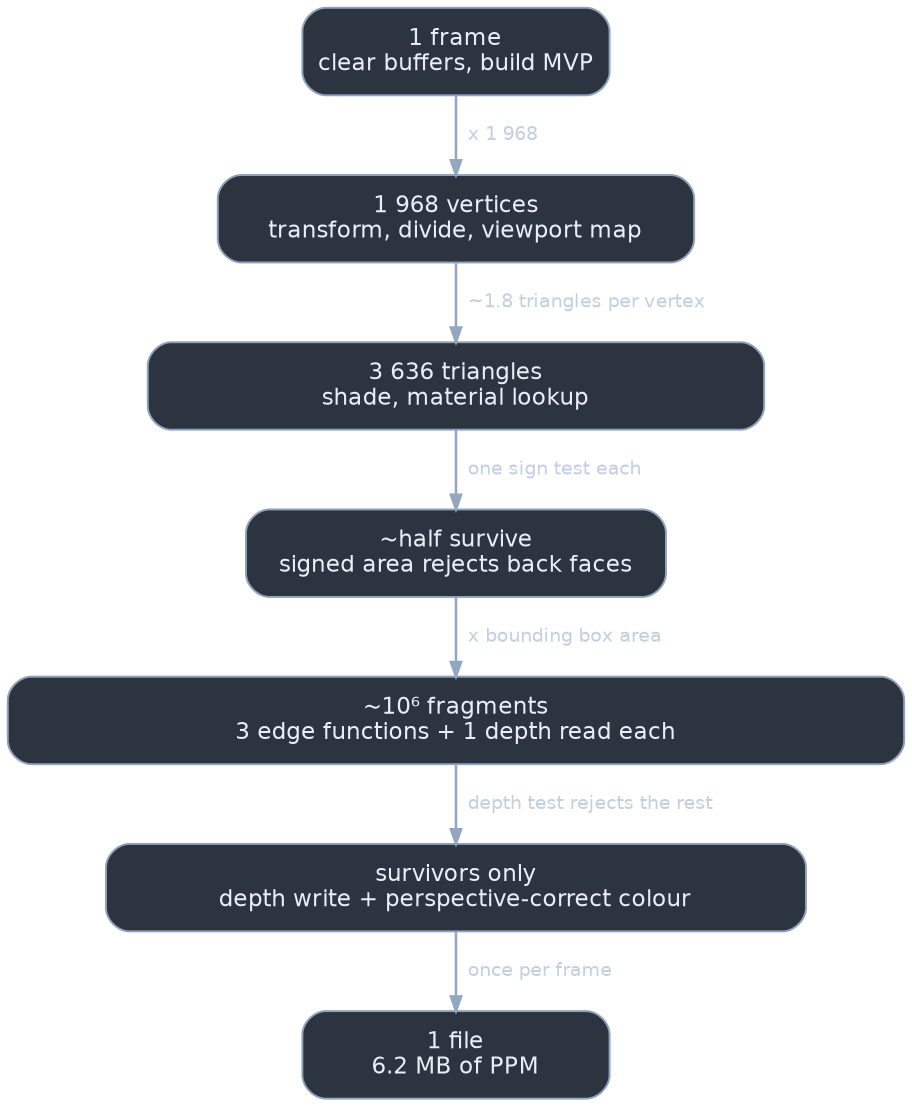
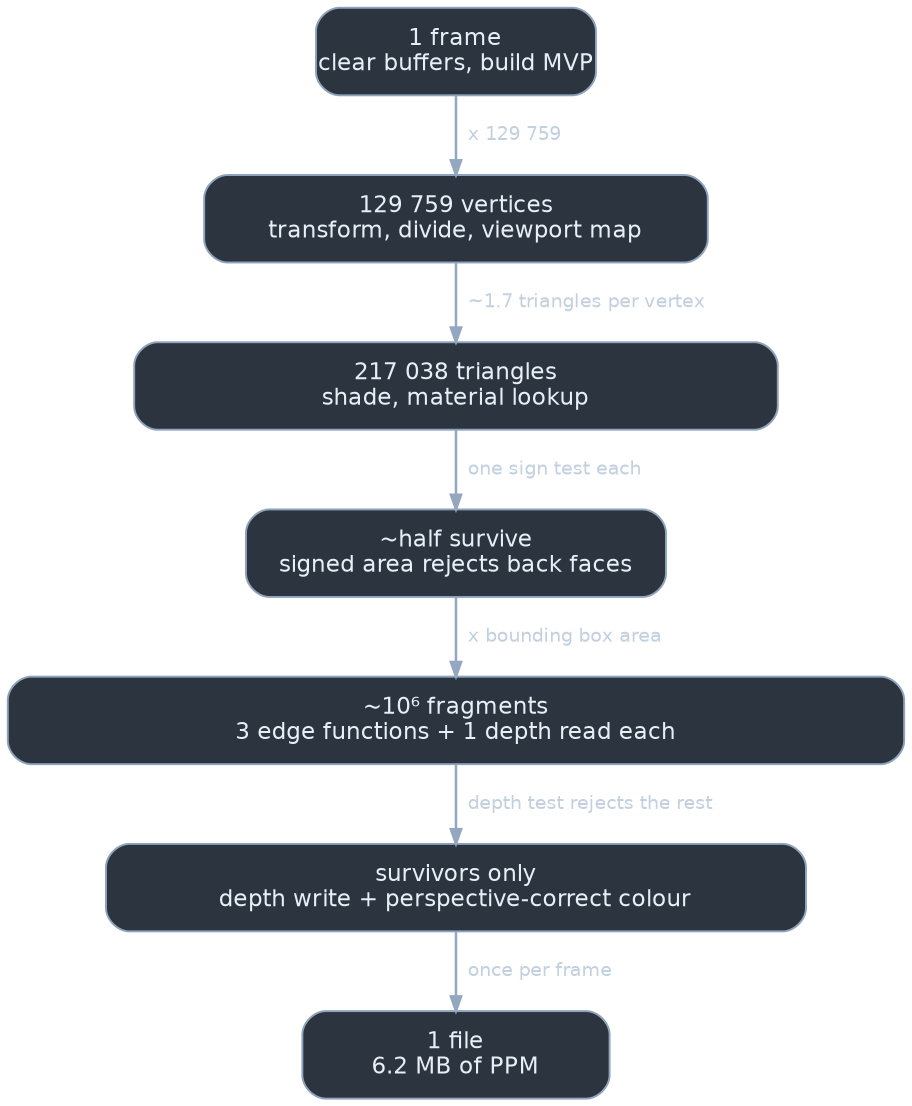
docs: follow the move to downloaded models; drop the retired gif target
Two commits landed after the docs refresh was written. Both change what
the documentation describes.

make gif was removed from the Makefile, but the tooling job still ran it
and the README still listed it. The job now reads $(VIDEO) out of the
Makefile rather than hardcoding a filename, so retargeting the render
cannot silently stop the step from checking anything, and it restores the
file afterwards -- the target writes over a committed asset, so without
that the job leaves the tree dirty.

main.cpp now renders IronMan.obj: 129,759 vertices, 217,038 triangles,
124 usemtl blocks. The gallery leads with it and with the human figure,
and the work-amplification graph carries its counts. Cost figures
remeasured and given as a table across both models, because the
comparison says more than either number alone: sixty times the geometry
costs three times the time, since the fragment stage scales with coverage
rather than with triangles and both models fill a similar fraction of the
same frame.

Worth recording about that model: its OBJ names 124 materials, its MTL
defines 11, and six usemtl names have no match. Each falls back to the
neutral default with a note rather than aborting -- visible as the white
pieces in the render. It is the first mesh here the loader did not
generate itself, which is the only way to find out whether it survives
one it did not.

Verified on the new default model: g++ and clang++ under -Werror, output
[…]

diff --git a/README.md b/README.md
@@ -21,12 +21,20 @@ number.
 
 | | |
 |---|---|
+| <img src="Media/Gifs/ironman.gif" alt="Iron Man model rendered with per-material colour" width="380"><br>**Iron Man** — 129,759 vertices, **217,038 triangles**, 124 `usemtl` blocks. A downloaded model rather than a generated one, which is the point: it is the first mesh in the repo the loader did not produce itself. | <img src="Media/Gifs/human_model.gif" alt="Single-material human figure, smooth shaded" width="380"><br>**Human figure** — 24,459 faces, one material. Shares vertices throughout, so the averaged normals shade it smooth end to end. |
 | <img src="Media/Gifs/solids_scene.gif" alt="Six coloured solids ringing a central torus, hard and soft edges in one render" width="380"><br>**Solids scene** — 3,636 triangles, 7 materials. Flat-faced solids keep their hard edges; the spheres and torus stay smooth. The central torus interpenetrates the ring by ~0.1 units, resolved per pixel by the depth buffer rather than by draw order. | <img src="Media/Gifs/torus_knot.gif" alt="A (2,3) torus knot in eight materials, crossings occluding each other" width="380"><br>**Torus knot** — 12,800 triangles, 8 materials. A (2,3) knot swept by a parallel-transport frame. The crossings occlude each other heavily, which is the depth test doing real work. |
 
 Whether an edge is hard or soft is decided entirely by the mesh, not by a
 renderer flag: the flat-faced solids carry per-face duplicated vertices, so
 normal averaging has nothing to average across; the curved surfaces share
 vertices and average smooth.
+
+The Iron Man model is also the first one to exercise the loader's tolerance
+rather than its parsing. Its OBJ names 124 materials; its MTL defines 11. Six
+`usemtl` names have no match, and each falls back to the neutral default with a
+note on stdout rather than aborting — visible as the white pieces. A loader that
+only ever sees files it generated itself never learns whether it can survive one
+it did not.
 
 ### How it got to that
 
@@ -55,7 +63,7 @@ model.h/cpp       OBJ + MTL loading, index resolution, bounds
 framebuffer.h/cpp colour + depth buffers, clears, PPM output
 raster.h/cpp      edge function, backface cull, drawTriangle
 
-Makefile          build, render, encode video/GIF, docs, graphs
+Makefile          build, render, encode video, docs, graphs
 Doxyfile          Doxygen configuration
 mainpage.dox      landing page for the generated documentation
 LICENSE           MIT
@@ -492,20 +500,26 @@ expensive work is the whole trade.
 
 ## What it costs
 
-**The pipeline runs at ~23 ms per frame** — 3,636 triangles transformed, culled,
-shaded and rasterized into 1920×1080, single threaded, `-O2`.
+**The pipeline runs at ~75 ms per frame** — 217,038 triangles transformed,
+culled, shaded and rasterized into 1920×1080, single threaded, `-O2`.
 
-A full 120-frame run takes ~7.6 s of wall clock, but only ~2.8 s of that is user
-time; the other ~4.8 s is the kernel writing 746 MB of uncompressed PPM to disk.
-No renderer dumps every frame to disk uncompressed — that is this harness, not
-the pipeline, and it should be subtracted before drawing any conclusion about
-where the work goes.
+A full 120-frame run takes ~13.3 s of wall clock, of which ~9.0 s is user time;
+the other ~4.3 s is the kernel writing 746 MB of uncompressed PPM to disk. No
+renderer dumps every frame to disk uncompressed — that is this harness, not the
+pipeline, and it should be subtracted before drawing any conclusion about where
+the work goes.
 
-| | |
-|---|---|
-| user (transform + cull + raster) | ~2.8 s → **~23 ms/frame** |
-| system (PPM writes, harness overhead) | ~4.8 s |
-| wall clock | ~7.6 s |
+| Model | Triangles | user | per frame |
+|---|---|---|---|
+| solids scene | 3,636 | ~2.8 s | ~23 ms |
+| Iron Man | 217,038 | ~9.0 s | **~75 ms** |
+
+Sixty times the geometry for three times the time. The vertex stage scales with
+the model; the fragment stage scales with *coverage*, and both models fill a
+similar fraction of the same 1920×1080 frame. Past a certain triangle count the
+pipeline stops being geometry-bound and the cost sits at the wide end regardless
+— which is the whole reason the wide end is what gets built into fixed-function
+hardware.
 
 ## Build and run
 
@@ -522,7 +536,6 @@ on every push, and the Windows one is the original and is unchanged.
 make            # build -> renderer (renderer.exe on Windows)
 make run        # build, clear stale frames, render 120 frames into frames/
 make video      # run, then encode an mp4        (needs ffmpeg)
-make gif        # run, then encode a gif         (needs ffmpeg)
 make docs       # doxygen HTML into docs/html/   (needs doxygen + graphviz)
 make graphs     # redraw the README graphs       (needs graphviz)
 make clean
@@ -536,10 +549,10 @@ mkdir frames && ./renderer
 ```
 
 **Paths resolve from the working directory**, so run from the repository root —
-`main.cpp` loads `Media/Obj_files/solids_scene.obj`. Change that line to swap
-models; `torus_knot.obj`, `torus.obj`, `icosphere.obj`, `jack.obj` and `test.obj`
-are also there. An MTL referenced by `mtllib` resolves against the OBJ's own
-directory, not the working directory.
+`main.cpp` loads `Media/Obj_files/IronMan.obj`. Change that line to swap models;
+`Human_Model.obj`, `solids_scene.obj`, `torus_knot.obj`, `torus.obj`,
+`icosphere.obj`, `jack.obj` and `test.obj` are also there. An MTL referenced by
+`mtllib` resolves against the OBJ's own directory, not the working directory.
 
 **`frames/` gets large.** At 1920×1080 one P6 PPM is 6,220,817 bytes and a
 120-frame run writes 746,498,040 — 746 MB, or 712 MiB. It is gitignored, and
@@ -562,8 +575,8 @@ graphs.
   rather than hardcoded, and a check that a frame contains more than 16 distinct
   channel values, since a broken transform still writes perfectly well-formed
   files full of flat grey.
-- **tooling** — `make docs`, `graphs`, `video` and `gif`, and a check that the
-  docs landing page has real content rather than just existing.
+- **tooling** — `make docs`, `graphs` and `video`, and a check that the docs
+  landing page has real content rather than just existing.
 - **sanitizers** — ASan and UBSan across a full render. The two hazards this
   design carries by construction are unchecked framebuffer writes behind a
   bounding box that must be clamped, and OBJ indices read from a file and used as
@@ -619,6 +632,8 @@ Deliberately unbuilt, roughly in the order they start to matter:
 | `4ad373c` | Backface culling — and the discovery that `torus.obj` was wound inward on all 800 faces. |
 | `577eb64` | Perspective-correct attribute interpolation, with `rec_w` carried per vertex. |
 | `1c83808` | MTL materials, one index per triangle; torus knot and solids scene added. |
+| `3d6e6aa` | First downloaded models — Iron Man and a human figure — rather than generated ones. |
+| `e3f87e5` | `make gif` retired; the GIF recipe lived only in the Makefile and the gallery is encoded by hand. |
 
 The stills, from the earliest days:
 
